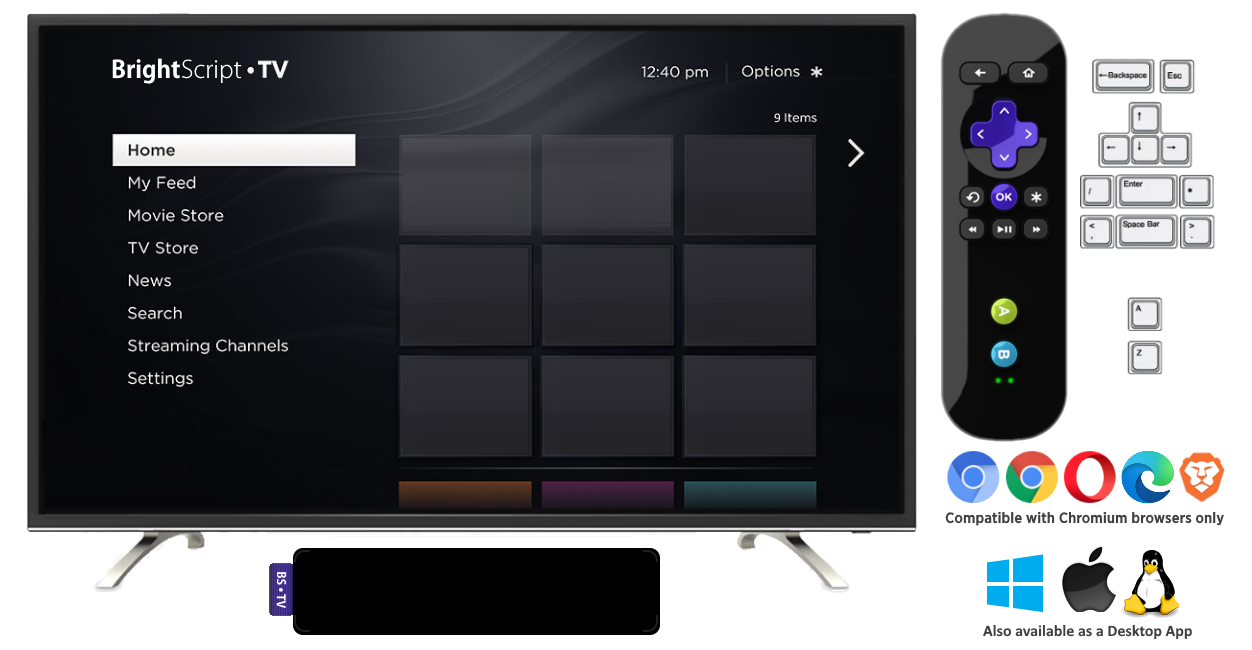
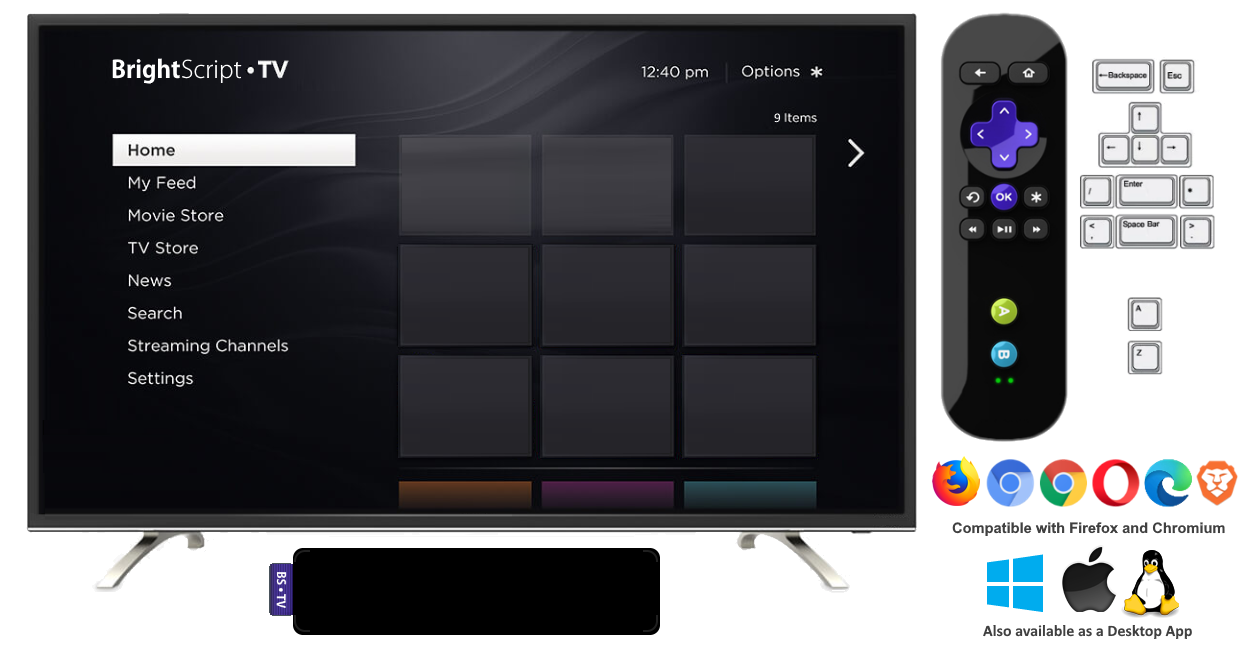
Added support for Firefox browser

Changed region(s): [[0.7476, 0.6769, 0.9968, 0.8308]]

diff --git a/app/index.js b/app/index.js
@@ -14,13 +14,6 @@ const channel1 = document.getElementById("channel1");
 const channel2 = document.getElementById("channel2");
 const channel3 = document.getElementById("channel3");
 
-// Browser Support
-const info = bowser.parse(window.navigator.userAgent);
-const browserVersion = parseVersionString(info.browser.version);
-const supportedBrowser =
-    info.engine.name == "Blink" &&
-    ((info.platform.type == "desktop" && browserVersion.major > 68) || browserVersion.major > 89);
-let supportSharedArray = false;
 // Device Data
 let running = false;
 const deviceInfo = {
@@ -46,15 +39,14 @@ const deviceInfo = {
     lowResolutionCanvas: true,
 };
 
-if (supportedBrowser) {
+if (supportedBrowser()) {
     channelInfo.innerHTML = "<br/>";
-    supportSharedArray = browserVersion.major < 92 || self.crossOriginIsolated;
 
     const customKeys = new Map();
     customKeys.set("Home", "home");
 
     // Initialize Device Emulator and subscribe to events
-    brsEmu.initialize(deviceInfo, supportSharedArray, false, customKeys);
+    brsEmu.initialize(deviceInfo, self.crossOriginIsolated, false, customKeys);
 
     brsEmu.subscribe("app", (event, data) => {
         if (event === "loaded") {
@@ -131,7 +123,6 @@ function loadZip(zip) {
     fileSelector.value = null;
     fetch(zip).then(function(response) {
         if (response.status === 200 || response.status === 0) {
-            console.log(`Loading ${zip}...`);
             brsEmu.execute(zip, response.blob());
             display.focus();
         } else {
@@ -175,7 +166,21 @@ function channelIcons(visibility) {
     }
 }
 
-// Version Parser
+// Browser Check
+
+function supportedBrowser() {
+    const info = bowser.parse(window.navigator.userAgent);
+    console.log(info.engine.name, info.platform.type, info.browser.version)
+    const browserVersion = parseVersionString(info.browser.version);
+    let supported = false;
+    if (info.engine.name == "Blink") {
+        supported = ((info.platform.type == "desktop" && browserVersion.major > 68) || browserVersion.major > 88)
+    } else if (info.engine.name == "Gecko") {
+        supported = (browserVersion.major > 104)
+    }       
+    return supported; 
+}
+
 function parseVersionString(str) {
     if (typeof str != "string") {
         return {};

diff --git a/README.md b/README.md
@@ -1,6 +1,6 @@
 # BRS-EMU: BrightScript 2D API Emulator
 
-An emulator for the Roku BrightScript language that runs on Chromium based browsers and Electron applications.
+An emulator for the Roku BrightScript language that runs on Firefox or Chrome browsers and Electron applications.
 
 [![NPM Version](https://badge.fury.io/js/brs-emu.svg?style=flat)](https://npmjs.org/package/brs-emu)
 
@@ -20,7 +20,7 @@ This emulator is bundled as a couple of **[Webpack](https://webpack.js.org/)** J
 - `brsEmu.js` the **[emulator API](docs/emulator-api.md)** to be used by the application.
 - `brsEmu.worker.js` the **[Web Worker](https://developer.mozilla.org/en-US/docs/Web/API/Web_Workers_API/Using_web_workers)** that runs the language interpreter.
 
-It uses features like [SharedArrayBuffer](https://developer.mozilla.org/en-US/docs/Web/JavaScript/Reference/Global_Objects/SharedArrayBuffer) and [OffScreenCanvas](https://developer.mozilla.org/en-US/docs/Web/API/OffscreenCanvas), that are _bleeding edge_ in the browser engines implementation, because of that, at this moment, it can only be executed in [Chromium](https://www.chromium.org/Home) based browsers, like [Chrome](https://www.google.com/chrome/), [Brave](https://brave.com/download/), [Opera](https://www.opera.com/), [Edge](https://www.microsoft.com/en-us/edge) or embedded on an [Electron](https://electronjs.org/) application. The **BrightScript 2D API Emulator** is a full client-side library, nothing is sent or processed in the server side.
+It uses features like [SharedArrayBuffer](https://developer.mozilla.org/en-US/docs/Web/JavaScript/Reference/Global_Objects/SharedArrayBuffer) and [OffScreenCanvas](https://developer.mozilla.org/en-US/docs/Web/API/OffscreenCanvas), that are _bleeding edge_ in the browser engines implementation, because of that, at this moment, it can only be executed in [Firefox](https://firefox.com) (version 105 or higher) or [Chromium](https://www.chromium.org/Home) based browsers, like [Chrome](https://www.google.com/chrome/), [Brave](https://brave.com/download/), [Opera](https://www.opera.com/), [Edge](https://www.microsoft.com/en-us/edge). The emulator can also be embedded on an [Electron](https://electronjs.org/) application. The **BrightScript 2D API Emulator** is a full client-side library, nothing is sent or processed in the server side.
 
  ## How to use it
 
